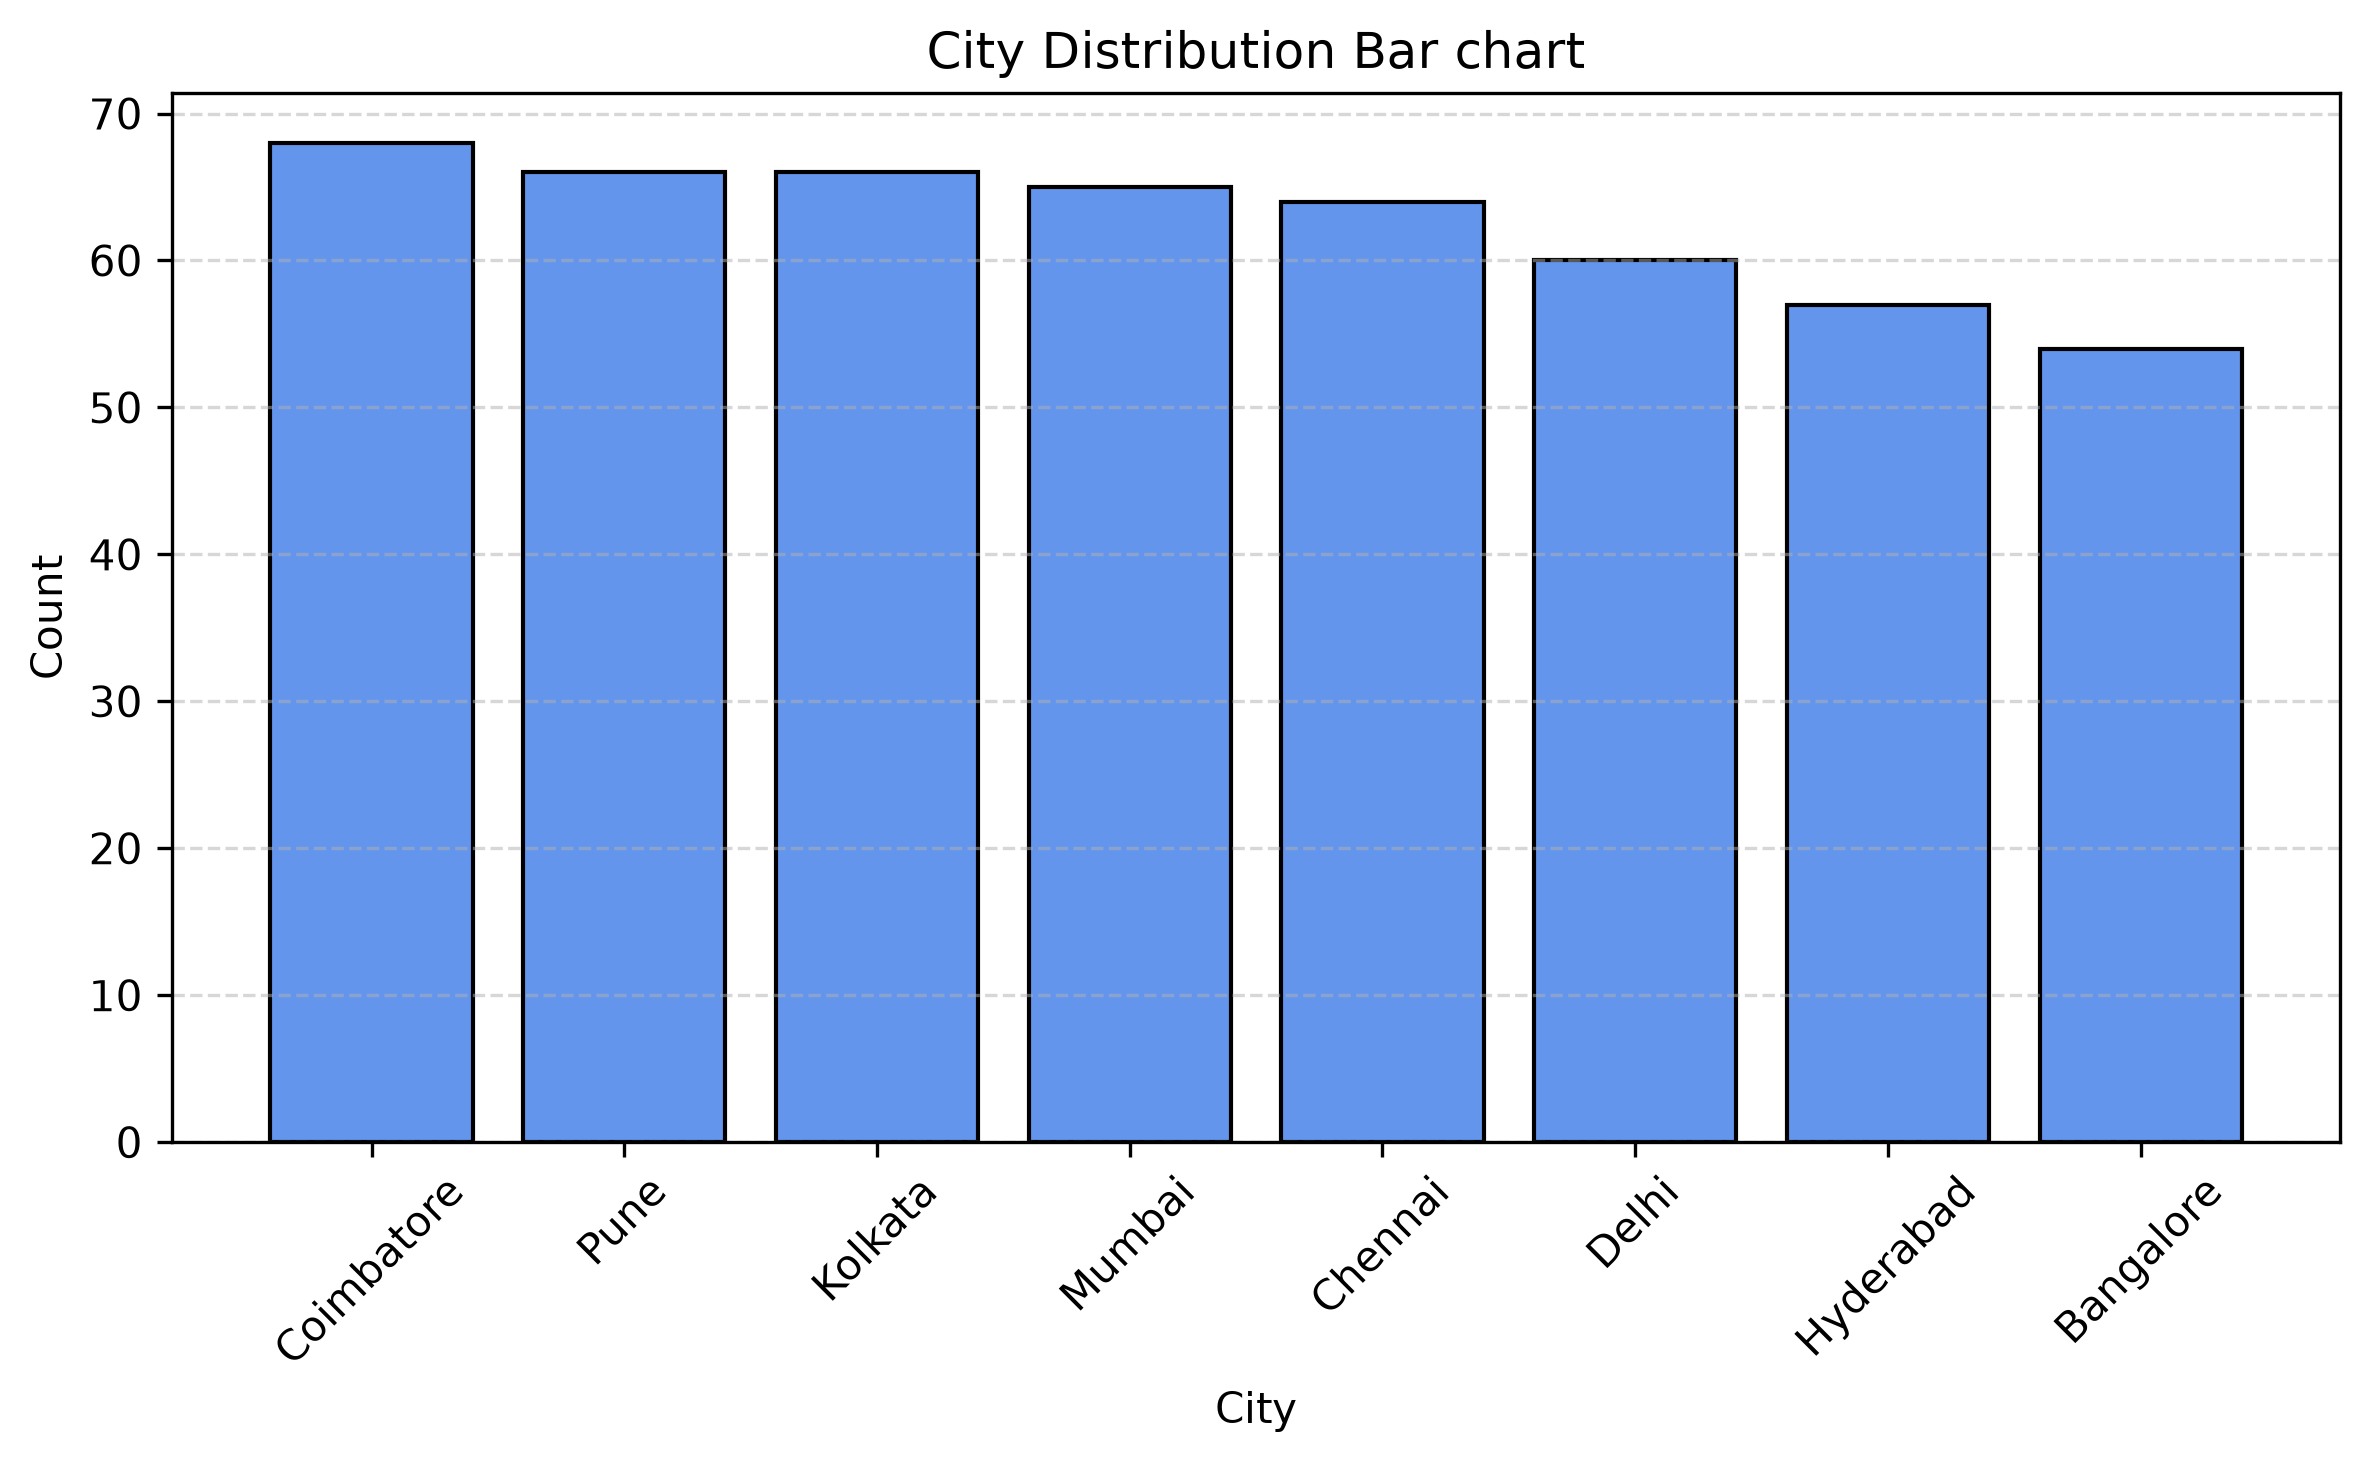
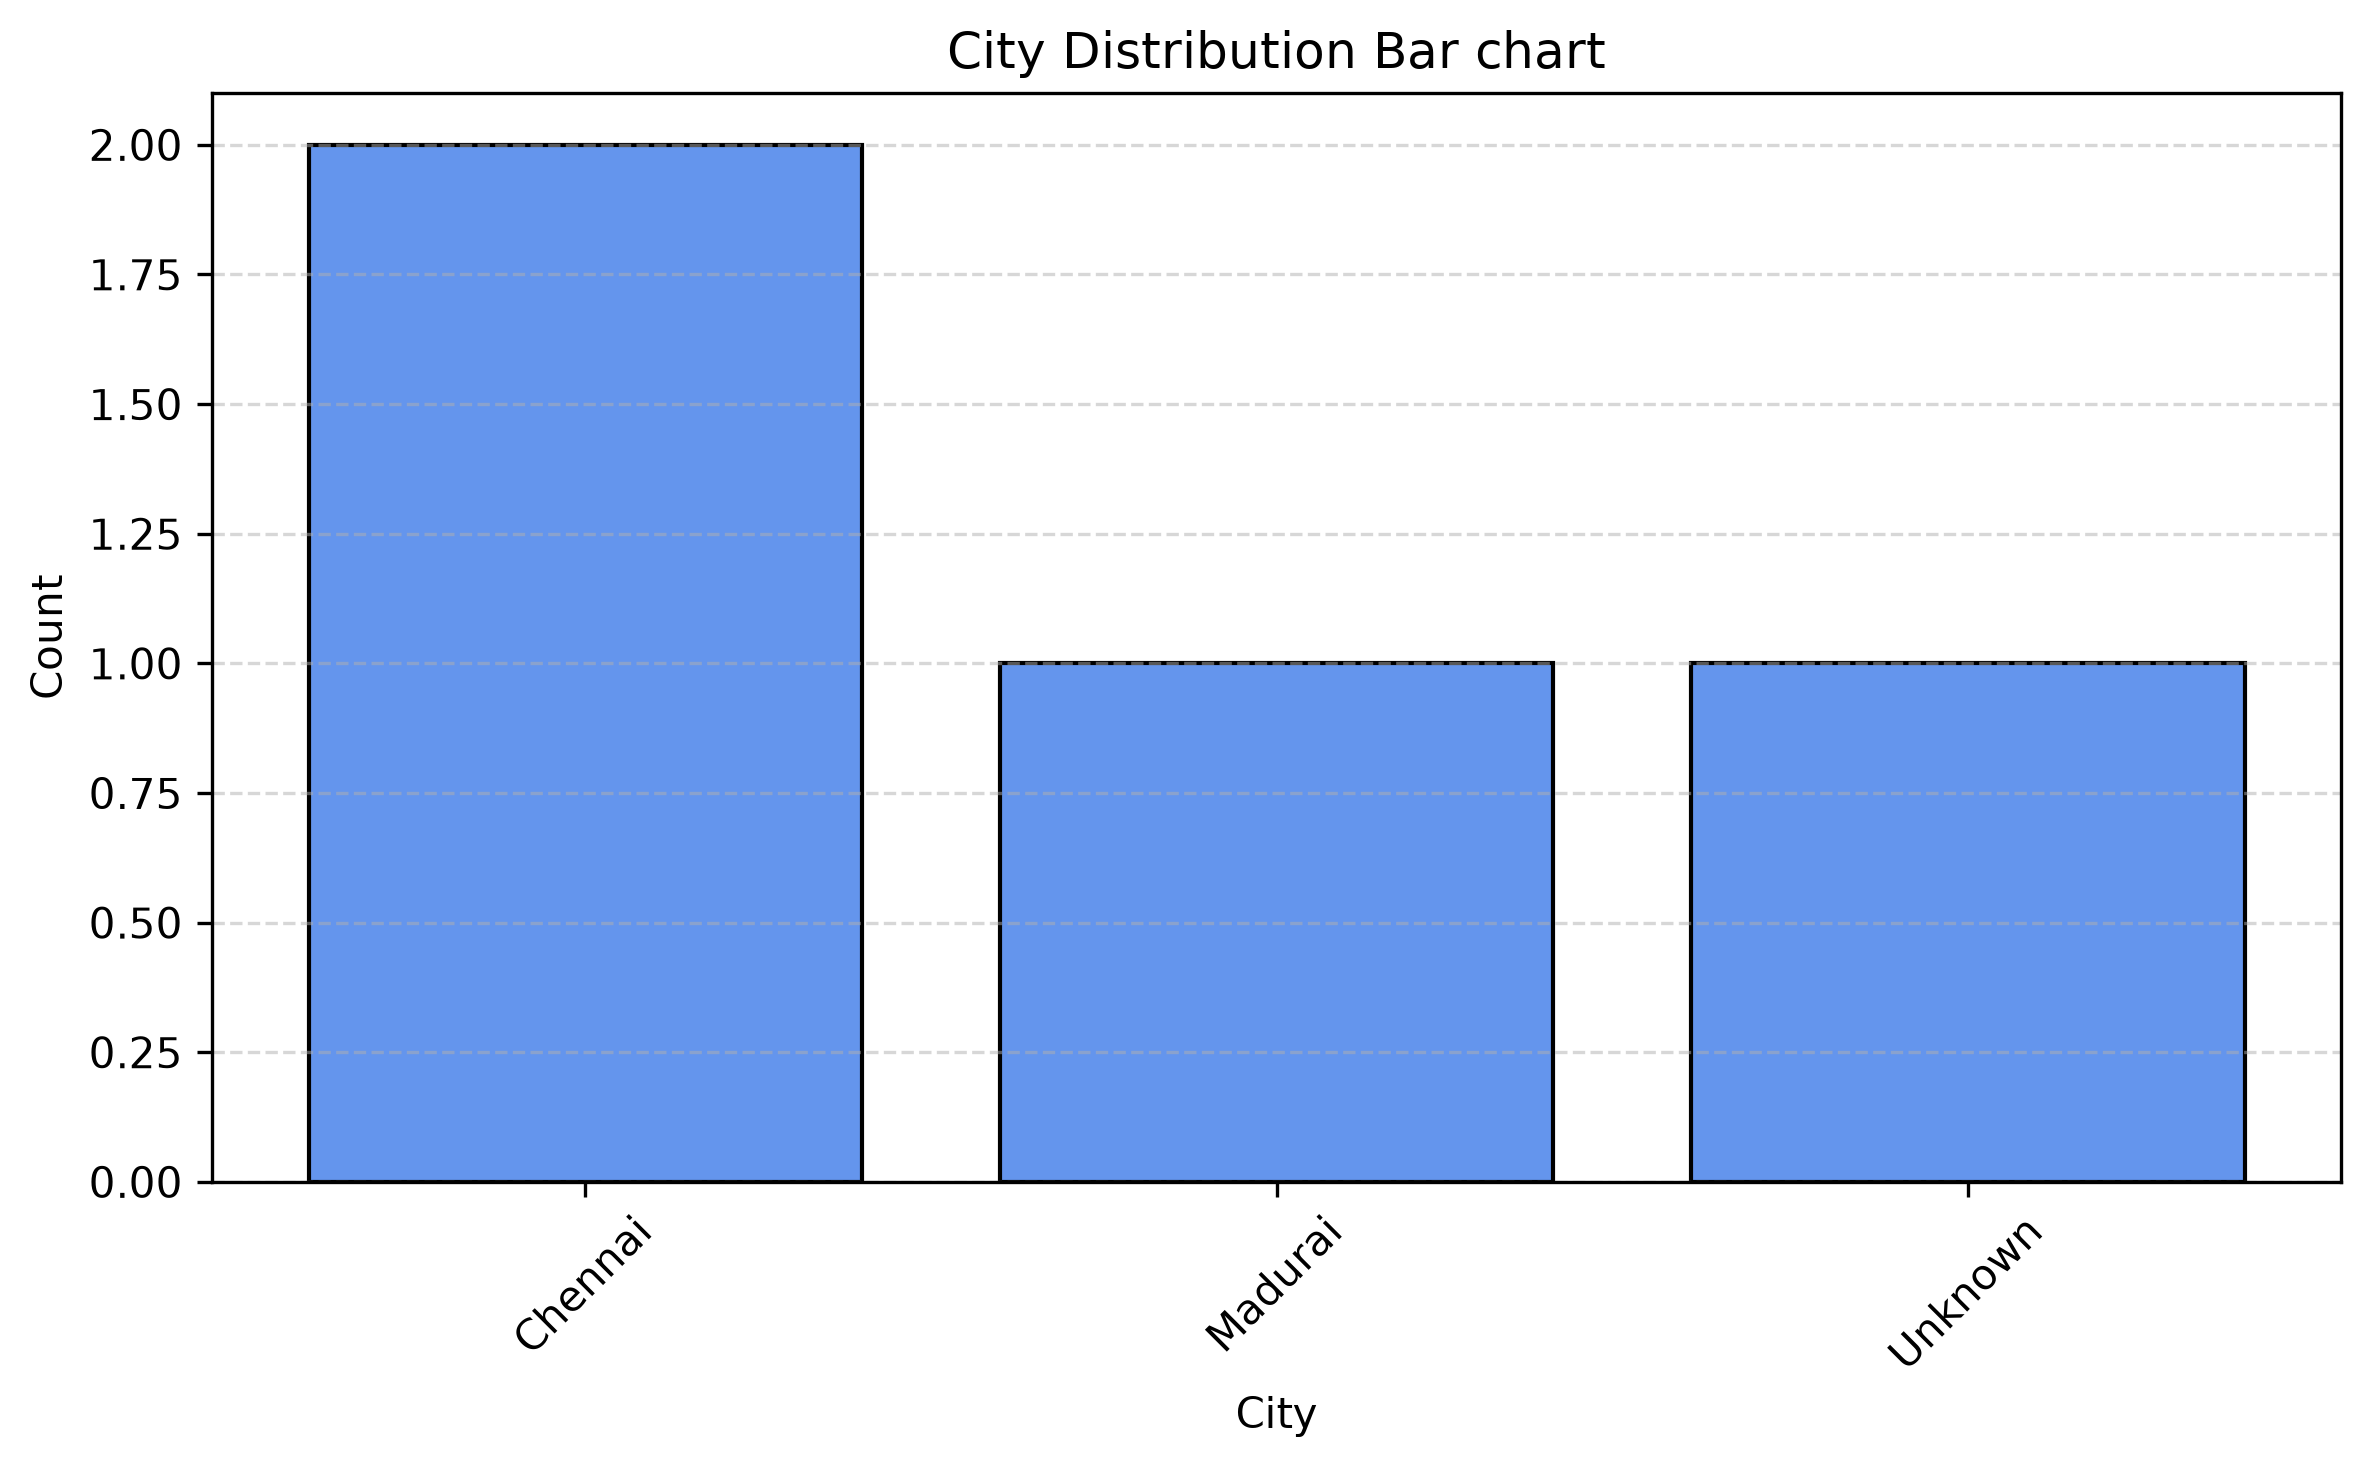
feat: add downloadable PDF report to frontend dashboard

diff --git a/frontend/src/components/UploadSection.jsx b/frontend/src/components/UploadSection.jsx
@@ -130,6 +130,33 @@ function UploadSection() {
                         insights={result.dashboard.business_insights}
                     />
                     
+                    {/* PDF Report */}
+                    <div
+                        style={{
+                            marginTop:"20px",
+                            padding:"20px",
+                            border:"1px solid #ddd",
+                            borderRadius: "10px",
+                            background: "#ffffff",
+                            textAlign: "center",
+                        }}>
+                        <h2>Business Report</h2>
+                        <a href={`http://127.0.0.1:8000/${result.pdf_report}`}
+                            target="_blank" rel="noopener noreferrer"
+                            style ={{
+                                display:"inline-block",
+                                padding: "12px 24px",
+                                background: "#2563eb",
+                                color:"white",
+                                textDecoration: "none",
+                                borderRadius: "8px",
+                                fontWeight: "bold",
+                            }}>
+                                Download Business Report
+                            </a>
+
+                    </div>
+
                     <SuggestedQuestions
                     questions = {result.suggested_questions}
                     />

diff --git a/backend/app/main.py b/backend/app/main.py
@@ -5,6 +5,8 @@ from app.api.auth import router as auth_router
 from app.api.health import router as health_router
 from app.core.config import APP_NAME, APP_VERSION
 from fastapi.middleware.cors import CORSMiddleware
+from fastapi.staticfiles import StaticFiles
+
 
 
 app = FastAPI(
@@ -12,6 +14,8 @@ app = FastAPI(
     version=APP_VERSION,
     description="AI-Powered Business Intelligence Platform"
 )
+
+app.mount("/reports", StaticFiles(directory="reports"), name="reports")
 
 app.add_middleware(
     CORSMiddleware,
